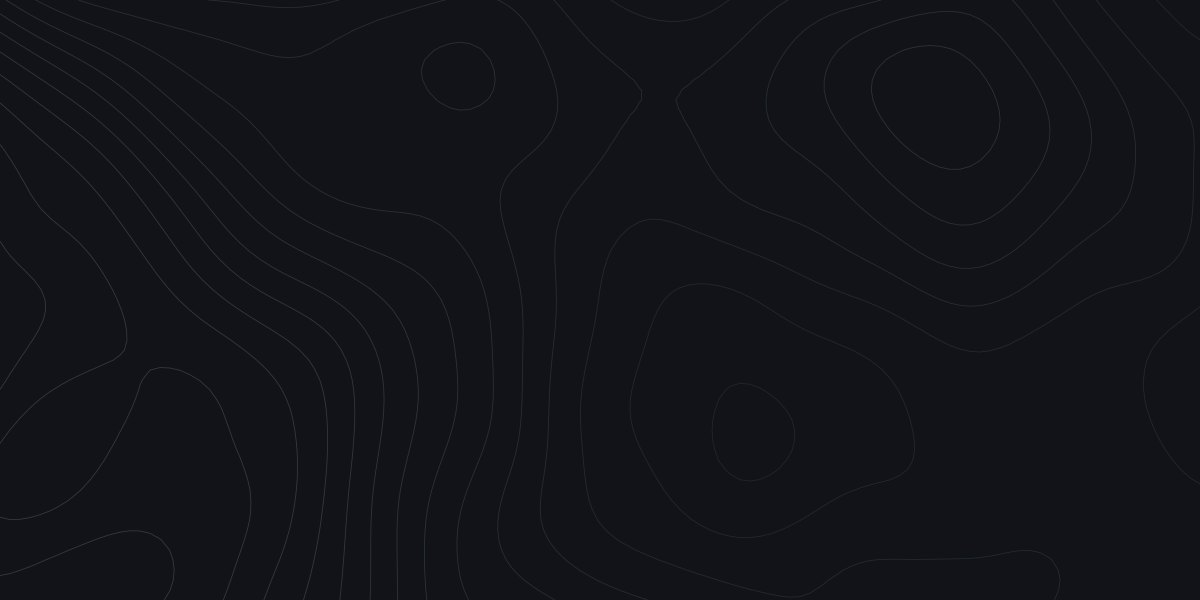
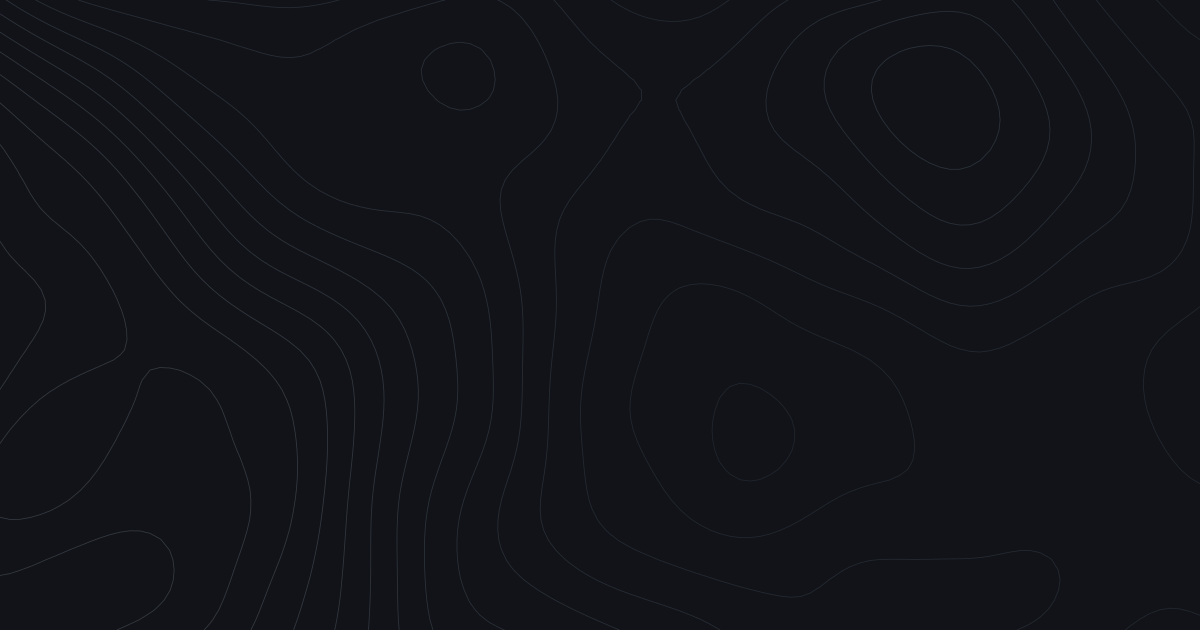
Fix meta tags

diff --git a/scripts/generate-apple-icon.ts b/scripts/generate-apple-icon.ts
@@ -1,0 +1,52 @@
+import { createCanvas } from "canvas";
+import * as fs from "fs";
+import * as path from "path";
+
+// Generate Apple Touch Icon (180x180 PNG)
+function generateAppleTouchIcon() {
+  const size = 180;
+  const canvas = createCanvas(size, size);
+  const ctx = canvas.getContext("2d");
+
+  // Background - dark
+  ctx.fillStyle = "#1a1a1a";
+  ctx.fillRect(0, 0, size, size);
+
+  // Draw simplified heartbeat/activity line
+  const iconColor = "#b86b5a"; // chart-1 color (hsl 12 45% 55%)
+  
+  ctx.strokeStyle = iconColor;
+  ctx.lineWidth = 8;
+  ctx.lineCap = "round";
+  ctx.lineJoin = "round";
+
+  // Draw a simple heartbeat line centered in the icon
+  const centerY = size / 2;
+  const margin = 35;
+  
+  ctx.beginPath();
+  // Start from left
+  ctx.moveTo(margin, centerY);
+  // Flat line to first bump
+  ctx.lineTo(margin + 25, centerY);
+  // Small bump down
+  ctx.lineTo(margin + 35, centerY + 15);
+  // Big spike up
+  ctx.lineTo(margin + 55, centerY - 45);
+  // Big spike down
+  ctx.lineTo(margin + 75, centerY + 35);
+  // Return to center
+  ctx.lineTo(margin + 95, centerY);
+  // Flat line to end
+  ctx.lineTo(size - margin, centerY);
+  ctx.stroke();
+
+  // Save to public folder
+  const outputPath = path.join(process.cwd(), "public", "apple-touch-icon.png");
+  const buffer = canvas.toBuffer("image/png");
+  fs.writeFileSync(outputPath, buffer);
+  console.log(`Apple Touch Icon saved to ${outputPath}`);
+}
+
+generateAppleTouchIcon();
+

diff --git a/src/app/layout.tsx b/src/app/layout.tsx
@@ -31,11 +31,21 @@ export const metadata: Metadata = {
   authors: [{ name: "Rhythm" }],
   creator: "Rhythm",
   metadataBase: new URL(
-    process.env.NEXT_PUBLIC_APP_URL || "https://rhythmtracker.com"
+    process.env.NEXT_PUBLIC_APP_URL || "https://www.rhythmtracker.com"
   ),
+  icons: {
+    icon: [
+      { url: "/favicon.ico", sizes: "any" },
+      { url: "/icon.svg", type: "image/svg+xml" },
+    ],
+    apple: [
+      { url: "/apple-touch-icon.png", sizes: "180x180", type: "image/png" },
+    ],
+  },
   openGraph: {
     type: "website",
     locale: "en_US",
+    url: "https://www.rhythmtracker.com",
     siteName: "Rhythm",
     title: "Rhythm — Track the patterns that shape your days",
     description:
@@ -44,7 +54,7 @@ export const metadata: Metadata = {
       {
         url: "/og-image.png",
         width: 1200,
-        height: 600,
+        height: 630,
         alt: "Rhythm - Track your daily patterns",
       },
     ],

diff --git a/scripts/generate-og-image.ts b/scripts/generate-og-image.ts
@@ -244,7 +244,7 @@ const getContourLines = (
 // Generate the OG image
 function generateOGImage() {
   const width = 1200;
-  const height = 600;
+  const height = 630; // Standard OG image dimensions
   const canvas = createCanvas(width, height);
   const ctx = canvas.getContext("2d");
 
